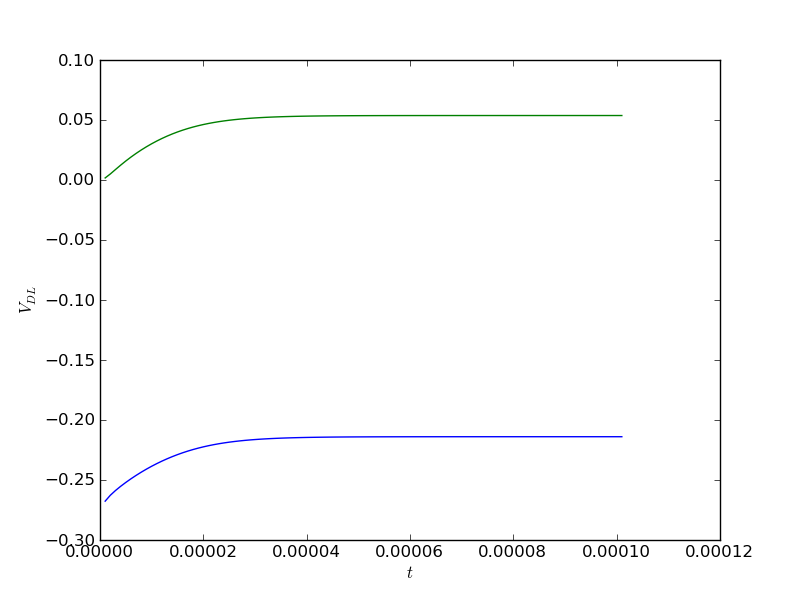
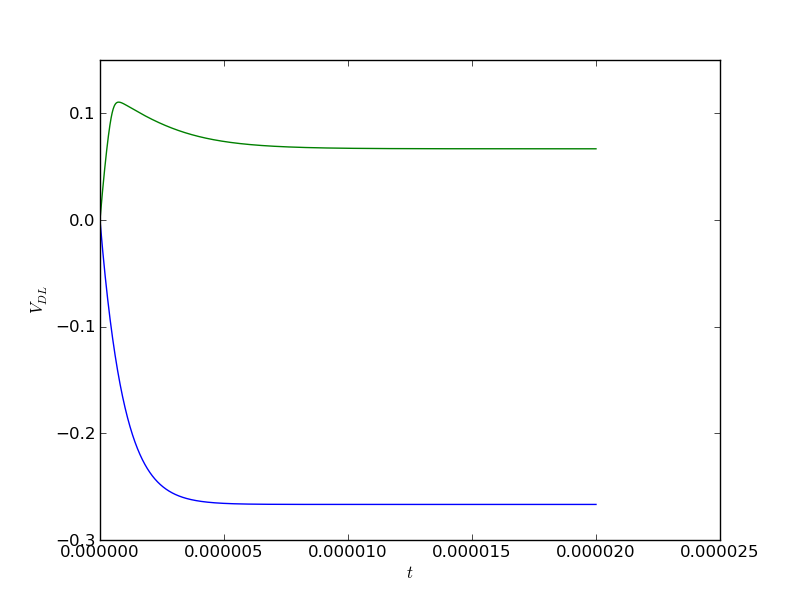
Corrected code to use the applied voltage as the fixed parameter rather than cell voltage.
git-svn-id: svn+ssh://code.matforge.org/wd15/trunk/moffat/electrical@1480 01ab6b12-1d45-0410-8926-c5867bd4e26f

diff --git a/1D_counter.py b/1D_counter.py
@@ -13,24 +13,25 @@ import numpy
 i0 = 40. ## A / m**2
 alpha = 0.4
 F = 9.6485e4 ## C / mol = J / V / mol
-V_CELL = -0.275 ## V
+V_APPLIED = -0.275 ## V
 R = 8.314 ## J / K / mol
 T = 298.0 ## K
 kappa = 15.26 ## S / m = A / V / m
-delta = 100.e-6 ## m
+delta = 100e-6
+delta_W = 50e-6 ## m
 C_DL = 0.3 ## F / m**2 = A s / V / m**2  
 Fbar = F / R / T
 
 
 def iT(VW, VC):
-    return -kappa / delta * (V_CELL - VW + VC)
+    return -kappa / delta_W * (V_APPLIED - VW)
 
 def iF(V):
     return i0 * (numpy.exp(-alpha * Fbar * V) - numpy.exp((2 - alpha) * Fbar * V))
 
 def iF_V(V):
     return i0 * (-alpha * Fbar * numpy.exp(-alpha * Fbar * V) \
-                      - (2 - alpha) * Fbar *  numpy.exp((2 - alpha) * Fbar * V))
+                      - (2 - alpha) * Fbar * numpy.exp((2 - alpha) * Fbar * V))
 
 def RHS(t, y):
     VW, VC = y
@@ -39,21 +40,21 @@ def RHS(t, y):
 
 def jacobian(t, y):
     VW, VC = y
-    return numpy.array([[(iF_V(VW) - kappa / delta) / C_DL,
-                         kappa / delta / C_DL],
-                        [kappa / delta / C_DL,
-                         (iF_V(VC) - kappa / delta) / C_DL]])
+    return numpy.array([[(iF_V(VW) - kappa / delta_W) / C_DL,
+                         0],
+                        [kappa / delta_W / C_DL,
+                         iF_V(VC) / C_DL]])
 
 from scipy.integrate import ode
 
 integrator = ode(RHS, jacobian).set_integrator('vode', method='bdf', with_jacobian=True)
-integrator.set_initial_value((V_CELL, 0.), 0.)
+integrator.set_initial_value((0., 0.), 0.)
 
 times = []
 V_DLs = []
-dt = 1e-6
+dt = 1e-8
 initialStep = True
-while integrator.successful() and integrator.t < 100.0e-6:
+while integrator.successful() and integrator.t < 200.0e-7:
     integrator.integrate(integrator.t + dt)
     if initialStep is True:
         residuals0 = RHS(integrator.t, integrator.y)
@@ -62,8 +63,15 @@ while integrator.successful() and integrator.t < 100.0e-6:
     times.append(integrator.t)
     V_DLs.append(integrator.y)
 
-print 'V_DL',V_DLs[-1]
-print 'iT',iT(V_DLs[-1][0], V_DLs[-1][1])
+VW_DL = V_DLs[-1][0]
+VC_DL = V_DLs[-1][1]
+VW_IR = V_APPLIED - VW_DL
+VC_IR = -(delta - delta_W) * VW_IR / delta_W
+print 'VW_DL',VW_DL
+print 'VC_DL',VC_DL 
+print 'VW_IR',VW_IR
+print 'VC_IR',VC_IR
+print 'V_CELL',VW_DL + VW_IR - VC_IR - VC_DL
 
 import pylab
 pylab.figure()
